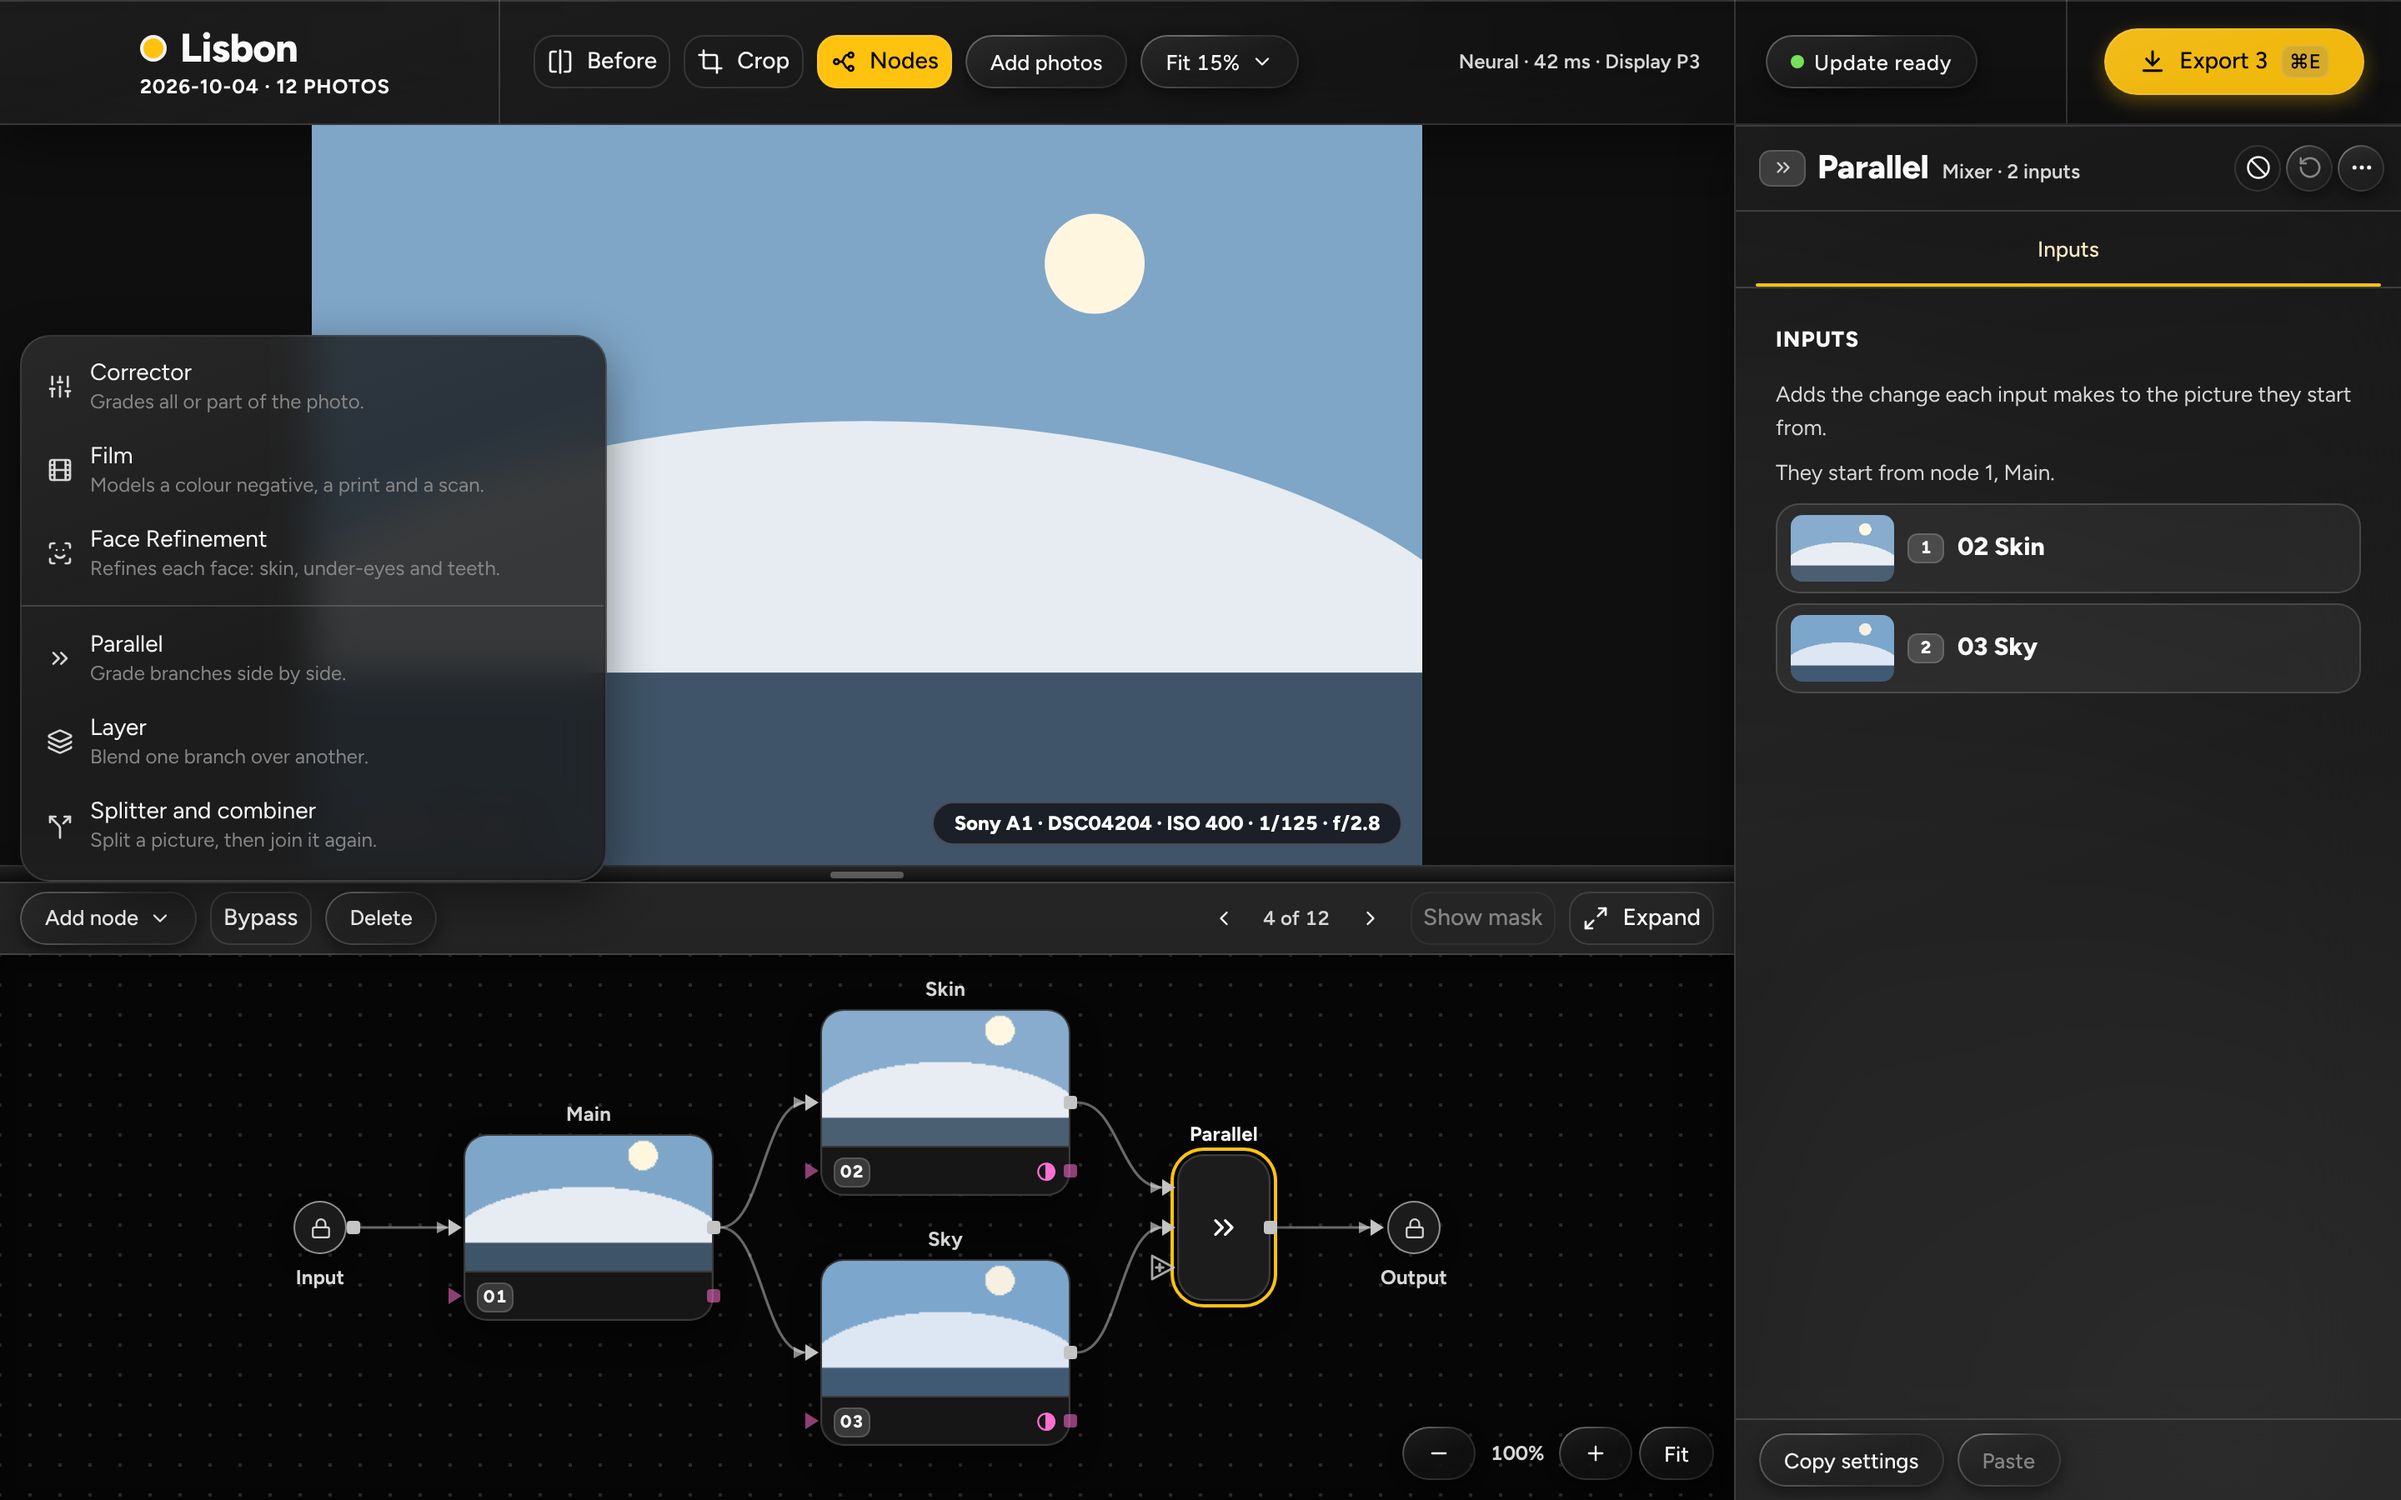
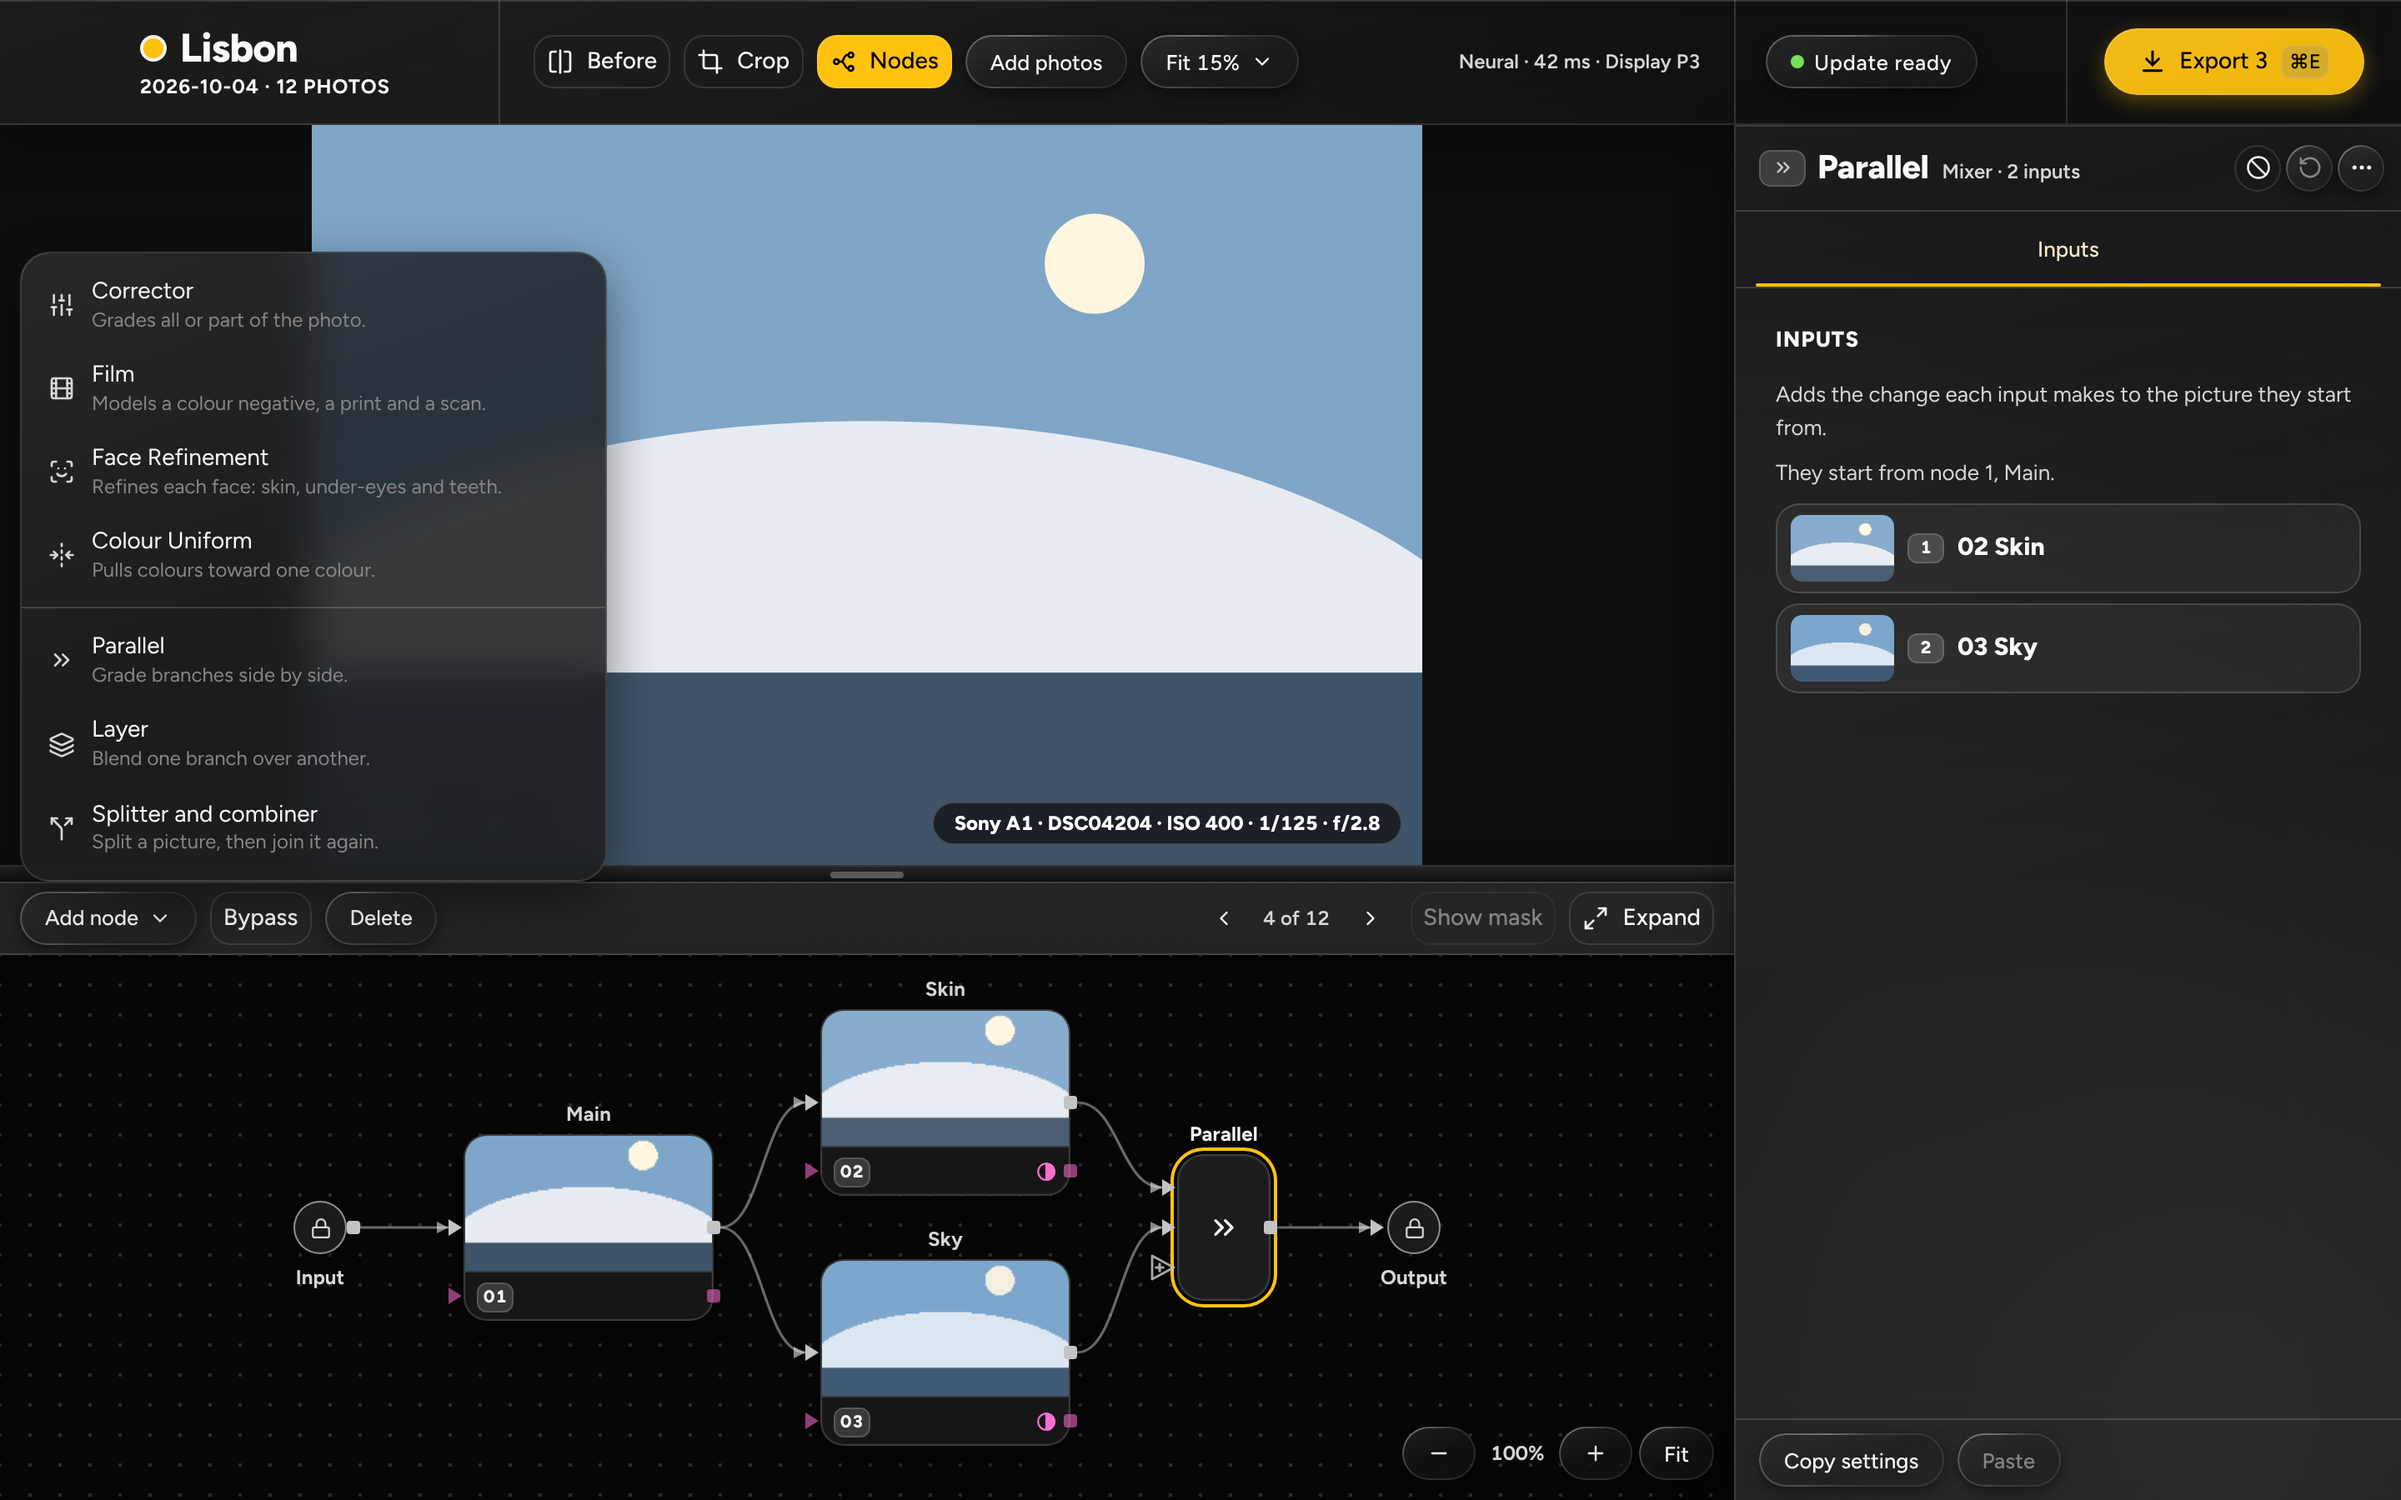
CU-11: the Colour Uniform screenshots, approved by the owner (2026-11-18)
Five new references in design/screenshots-c2 (the node, the pick, Show mask, the Mask tab
with the seeded Colour range row, the Add node menu), their spec e2e/uniform-shots.spec.ts,
and the two Add node references retaken for the menu's new item.

Claude-Session: https://claude.ai/code/session_015yVsquBXWFc8zJt2CLktQS

Changed region(s): [[0.0, 0.1556, 0.2812, 0.5911]]

diff --git a/e2e/uniform-shots.spec.ts b/e2e/uniform-shots.spec.ts
@@ -1,0 +1,38 @@
+import { expect, test } from "@playwright/test";
+import { compareScreen } from "./helpers/compare";
+import { uniformView } from "./helpers/states";
+
+// The reference pictures of the Colour Uniform node (`design/screenshots-c2/photos-uniform-*.png`, CU-11), the states of
+// `design/colour-uniform/01-node.jpg`, `02-pick-target.jpg`, `03-show-mask.jpg`, `03b-mask-tab.jpg` and `04-add-node-menu.jpg`.
+// The owner looks at the pictures before they are committed (docs/15, CU-11); until then this file is not in the repository.
+
+test.describe("Colour Uniform", () => {
+  test("the node, picked (photos-uniform-node.png)", async ({ page }) => {
+    await uniformView(page);
+    await compareScreen(page, "photos-uniform-node");
+  });
+
+  test("Pick colour on, no target yet (photos-uniform-pick.png)", async ({ page }) => {
+    await uniformView(page, { picked: false, picking: true });
+    await expect(page.getByRole("application", { name: /Pick colour for the target/ })).toBeVisible();
+    await compareScreen(page, "photos-uniform-pick", { pointer: { x: 520, y: 330 } });
+  });
+
+  test("Show mask on (photos-uniform-show-mask.png)", async ({ page }) => {
+    await uniformView(page, { show: "Overlay" });
+    await compareScreen(page, "photos-uniform-show-mask");
+  });
+
+  test("the Mask tab with the Colour range row (photos-uniform-mask-tab.png)", async ({ page }) => {
+    await uniformView(page, { tab: "Mask" });
+    await compareScreen(page, "photos-uniform-mask-tab");
+  });
+
+  test("the Add node menu with Colour Uniform (photos-uniform-add-node.png)", async ({ page }) => {
+    await uniformView(page);
+    await page.getByRole("button", { name: "Add node" }).click();
+    await expect(page.getByRole("menu", { name: "Add node" }).getByRole("menuitem", { name: /^Colour Uniform/ })).toBeVisible();
+    await page.waitForTimeout(500);
+    await compareScreen(page, "photos-uniform-add-node");
+  });
+});
